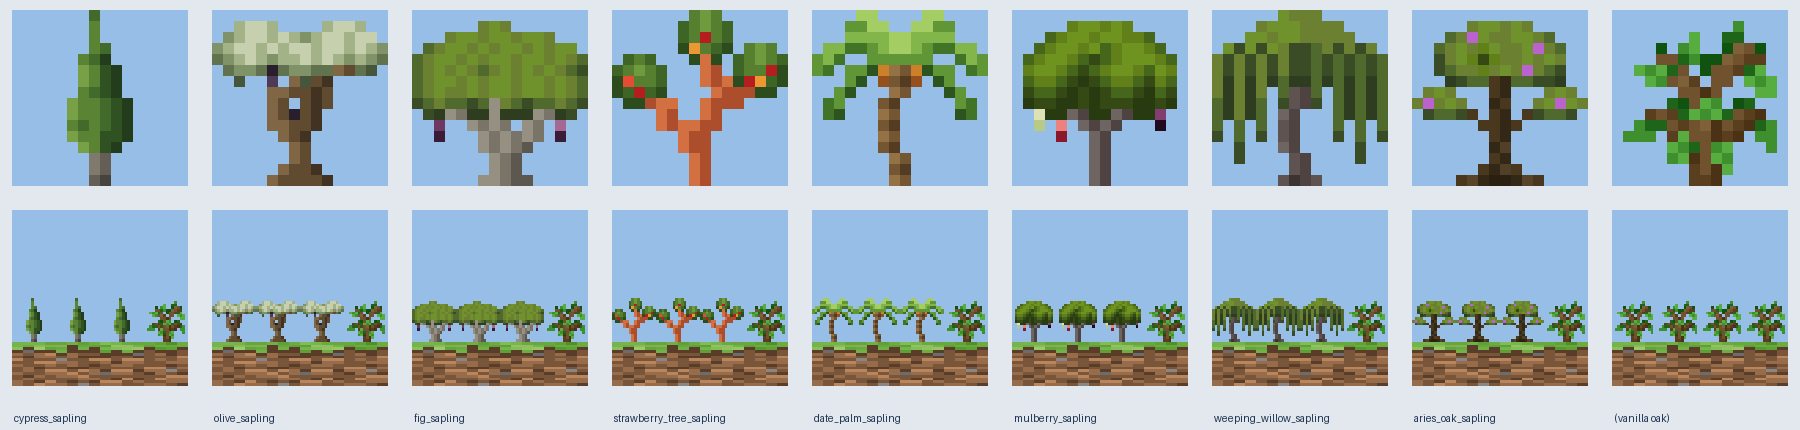
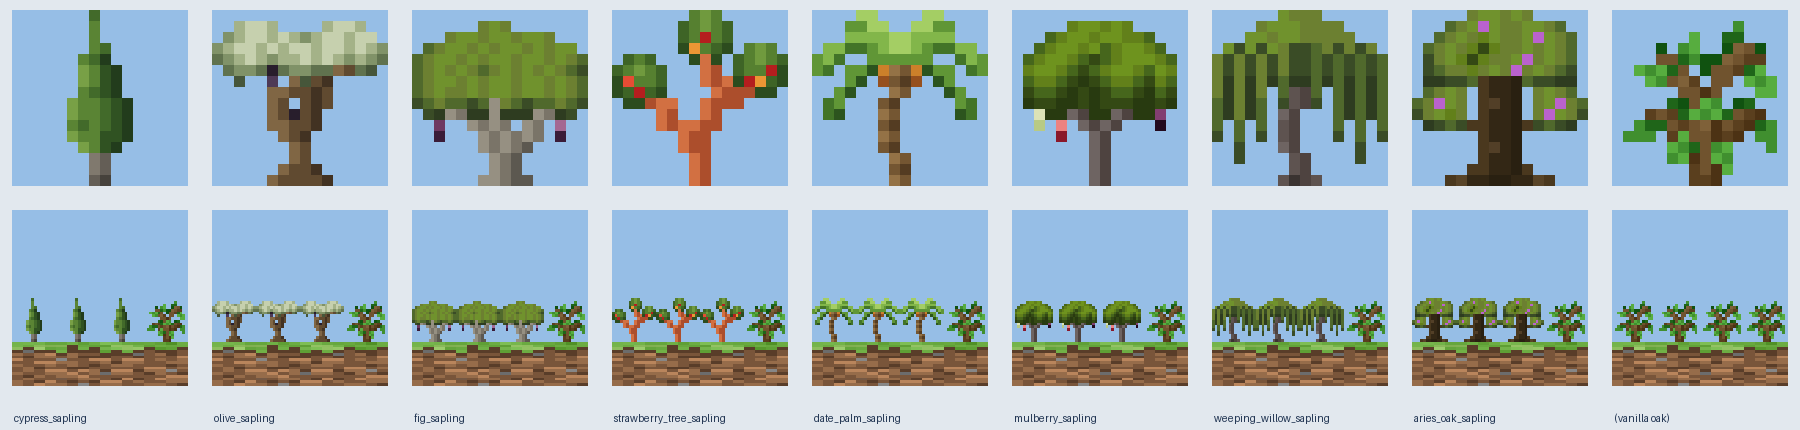
Greek Trees 0.16.2: bigger Aries oak sapling
The Aries oak sapling texture fills the tile: the flowering dome reaches the
top edge and is 14 wide, the side crowns are bigger and the trunk is 4 px
wide with a broad flared foot (G1 of tools/sapling_concepts.py aries4).

Changed region(s): [[0.7778, 0.0, 0.9022, 0.4535], [0.7778, 0.6953, 0.8711, 0.786]]

diff --git a/tools/sapling_concepts.py b/tools/sapling_concepts.py
@@ -37,6 +37,7 @@ python tools/sapling_concepts.py berry5 -> those with thicker stems and smooth b
 python tools/sapling_concepts.py berry6 -> every stem 2 px: strawberry_tree_sapling_v6.png
 python tools/sapling_concepts.py berry7 -> three crowns at different heights: strawberry_tree_sapling_v7.png
 python tools/sapling_concepts.py aries3 -> the Aries oak A, bigger: aries_oak_sapling_v3.png
+python tools/sapling_concepts.py aries4 -> those with a 4 px trunk: aries_oak_sapling_v4.png
 """
 import math
 import os
@@ -2392,6 +2393,82 @@ ARIES_BIG = [
 ]
 
 
+ARIES_BIG4 = [
+    ('G1 A ausgefüllt', 'Krone wie G1, Stamm 4 px (G3 ist damit dieselbe)', [
+        '.....455454.....',
+        '...345f5445543..',
+        '..3454J5445f543.',
+        '.3454JjJ4454543.',
+        '.245JjJ445f4543.',
+        '.2344J454f45432.',
+        '.11223cbba32211.',
+        '.3454.cbba.4543.',
+        '34f54.csba.45f43',
+        '245J4.cbba.4f542',
+        '.1232ccbbac2321.',
+        '......cbba......',
+        '......csba......',
+        '......cbba......',
+        '.....ccbbac.....',
+        '...cdbbaabbdc...',
+    ]),
+    ('G2 Eine Kuppel', 'Krone wie G2, Stamm 4 px', [
+        '....34554543....',
+        '..345f54455f43..',
+        '.3454J544554543.',
+        '345f4JjJ4454f543',
+        '3454JjJ445454f43',
+        '245J4f4454454542',
+        '2344J45444f45432',
+        '1233454f43354321',
+        '.12233cbba22321.',
+        '......cbba......',
+        '......cbba......',
+        '......csba......',
+        '......cbba......',
+        '......csba......',
+        '.....ccbbac.....',
+        '...cdbbaabbdc...',
+    ]),
+    ('G4 Hohe Kuppel', 'Krone wie G4, Stamm 4 px', [
+        '.....455454.....',
+        '...345f5445543..',
+        '..3454J5445f543.',
+        '.3454JjJ4454543.',
+        '.345JjJ445f4543.',
+        '.2454J454f45442.',
+        '.2344J4544f5432.',
+        '.12344544544321.',
+        '..1223cbba32211.',
+        '.454..cbba..454.',
+        '4f454.cbba.45f54',
+        '.2332ccbbac2332.',
+        '......cbba......',
+        '......csba......',
+        '.....ccbbac.....',
+        '...cdbbaabbdc...',
+    ]),
+    ('G5 Wolke', 'Krone wie G5, Stamm 4 px', [
+        '.....455454.....',
+        '...345f5445543..',
+        '..3454J5445f543.',
+        '.3454JjJ4454543.',
+        '.4554jJ445f4554.',
+        '34f543454f345f43',
+        '345452cbba344542',
+        '234432cbba234321',
+        '.1221.cbba.1221.',
+        '.....ccbbac.....',
+        '......cbba......',
+        '......cbba......',
+        '......csba......',
+        '......cbba......',
+        '.....ccbbac.....',
+        '...cdbbaabbdc...',
+    ]),
+]
+
+
 def growth_sheet(title, ideas, palette, current, vanilla_name, out,
                  caption='der Wuchs aus dem Dev-Server, nach dem die Variante gezeichnet ist'):
     """sheet() with the side view of the grown tree each idea follows under it. The growths are read from
@@ -2533,6 +2610,10 @@ def sheet(title, ideas, palette, current, vanilla_name, out):
 
 
 def main():
+    if 'aries4' in sys.argv[1:]:
+        sheet('Widdereichen-Setzling · A größer, Stamm 4 px', ARIES_BIG4, mt.ARIES,
+              mt.draw(*mt.SAPLINGS['aries_oak_sapling']), 'dark_oak_sapling', 'aries_oak_sapling_v4.png')
+        return
     if 'aries3' in sys.argv[1:]:
         sheet('Widdereichen-Setzling · A größer', ARIES_BIG, mt.ARIES, mt.draw(*mt.SAPLINGS['aries_oak_sapling']),
               'dark_oak_sapling', 'aries_oak_sapling_v3.png')

diff --git a/tools/make_textures.py b/tools/make_textures.py
@@ -225,25 +225,25 @@ SAPLINGS = {
         '.......cb.......',
         '......cabc......',
     ]),
-    # The giant in small: a flowering dome with jungle leaf patches, two side crowns on branches, a trunk with a
-    # flared foot (proposal A of tools/sapling_concepts.py).
+    # The giant in small: a flowering dome with jungle leaf patches filling the tile, two side crowns on branches,
+    # a 4 px trunk with a flared foot (G1 of tools/sapling_concepts.py aries4).
     'aries_oak_sapling': (ARIES, [
-        '................',
         '.....455454.....',
-        '...34f5445543...',
-        '..3454J5445f43..',
-        '..245JjJ445454..',
-        '..2344J454f432..',
-        '...1233cb33221..',
-        '.454...cb...454.',
-        '4f454..bc..45f54',
-        '.2332c.cb.c2332.',
-        '......ccbc......',
-        '.......cb.......',
-        '.......bs.......',
-        '.......cb.......',
-        '......cbsc......',
-        '....cdbaabdc....',
+        '...345f5445543..',
+        '..3454J5445f543.',
+        '.3454JjJ4454543.',
+        '.245JjJ445f4543.',
+        '.2344J454f45432.',
+        '.11223cbba32211.',
+        '.3454.cbba.4543.',
+        '34f54.csba.45f43',
+        '245J4.cbba.4f542',
+        '.1232ccbbac2321.',
+        '......cbba......',
+        '......csba......',
+        '......cbba......',
+        '.....ccbbac.....',
+        '...cdbbaabbdc...',
     ]),
 }
 
